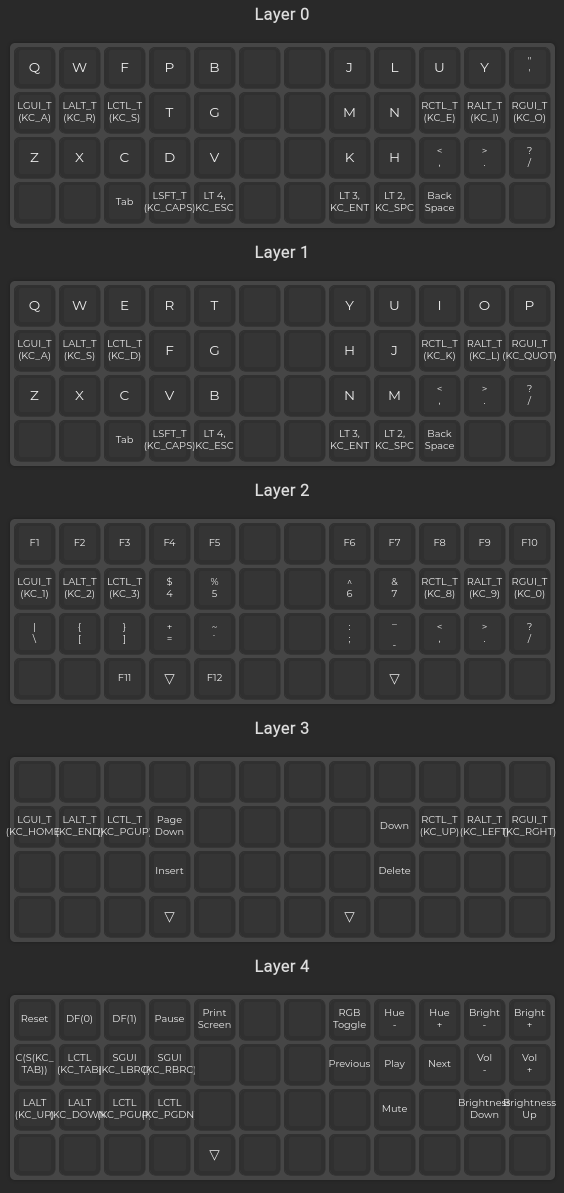
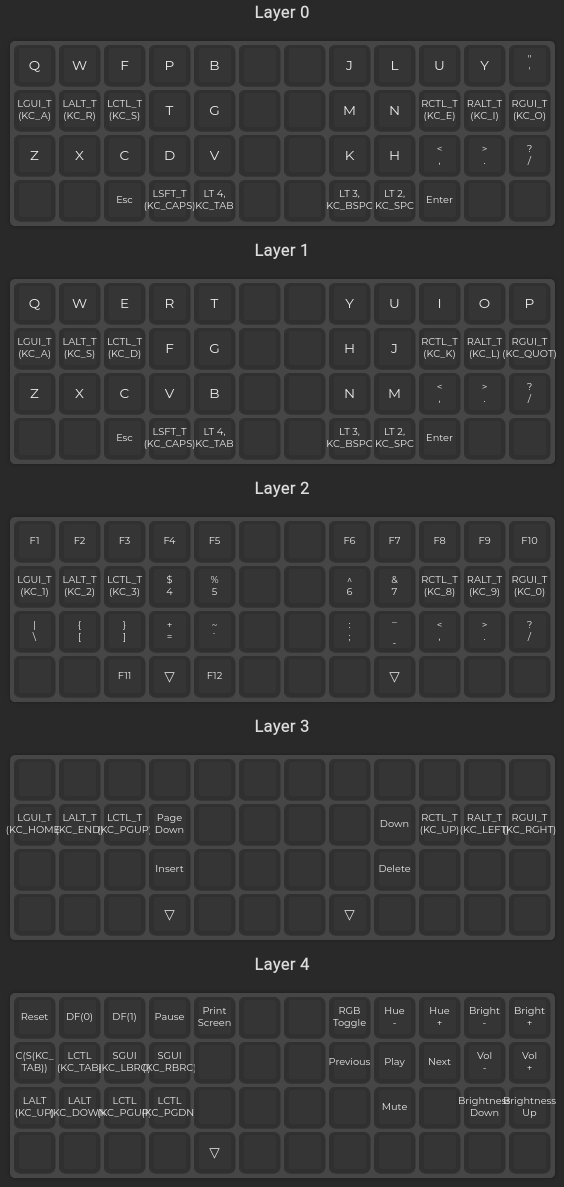
Rotate keys a smidge

diff --git a/keymap.c b/keymap.c
@@ -7,8 +7,8 @@
  */
 
 const uint16_t PROGMEM keymaps[][MATRIX_ROWS][MATRIX_COLS] = {
-	[0] = LAYOUT_ortho_4x12(KC_Q, KC_W, KC_F, KC_P, KC_B, KC_NO, KC_NO, KC_J, KC_L, KC_U, KC_Y, KC_QUOT, LGUI_T(KC_A), LALT_T(KC_R), LCTL_T(KC_S), KC_T, KC_G, KC_NO, KC_NO, KC_M, KC_N, RCTL_T(KC_E), RALT_T(KC_I), RGUI_T(KC_O), KC_Z, KC_X, KC_C, KC_D, KC_V, KC_NO, KC_NO, KC_K, KC_H, KC_COMM, KC_DOT, KC_SLSH, KC_NO, KC_NO, KC_TAB, LSFT_T(KC_CAPS), LT(4,KC_ESC), KC_NO, KC_NO, LT(3,KC_ENT), LT(2,KC_SPC), KC_BSPC, KC_NO, KC_NO),
-	[1] = LAYOUT_ortho_4x12(KC_Q, KC_W, KC_E, KC_R, KC_T, KC_NO, KC_NO, KC_Y, KC_U, KC_I, KC_O, KC_P, LGUI_T(KC_A), LALT_T(KC_S), LCTL_T(KC_D), KC_F, KC_G, KC_NO, KC_NO, KC_H, KC_J, RCTL_T(KC_K), RALT_T(KC_L), RGUI_T(KC_QUOT), KC_Z, KC_X, KC_C, KC_V, KC_B, KC_NO, KC_NO, KC_N, KC_M, KC_COMM, KC_DOT, KC_SLSH, KC_NO, KC_NO, KC_TAB, LSFT_T(KC_CAPS), LT(4,KC_ESC), KC_NO, KC_NO, LT(3,KC_ENT), LT(2,KC_SPC), KC_BSPC, KC_NO, KC_NO),
+	[0] = LAYOUT_ortho_4x12(KC_Q, KC_W, KC_F, KC_P, KC_B, KC_NO, KC_NO, KC_J, KC_L, KC_U, KC_Y, KC_QUOT, LGUI_T(KC_A), LALT_T(KC_R), LCTL_T(KC_S), KC_T, KC_G, KC_NO, KC_NO, KC_M, KC_N, RCTL_T(KC_E), RALT_T(KC_I), RGUI_T(KC_O), KC_Z, KC_X, KC_C, KC_D, KC_V, KC_NO, KC_NO, KC_K, KC_H, KC_COMM, KC_DOT, KC_SLSH, KC_NO, KC_NO, KC_ESC, LSFT_T(KC_CAPS), LT(4,KC_TAB), KC_NO, KC_NO, LT(3,KC_BSPC), LT(2,KC_SPC), KC_ENT, KC_NO, KC_NO),
+	[1] = LAYOUT_ortho_4x12(KC_Q, KC_W, KC_E, KC_R, KC_T, KC_NO, KC_NO, KC_Y, KC_U, KC_I, KC_O, KC_P, LGUI_T(KC_A), LALT_T(KC_S), LCTL_T(KC_D), KC_F, KC_G, KC_NO, KC_NO, KC_H, KC_J, RCTL_T(KC_K), RALT_T(KC_L), RGUI_T(KC_QUOT), KC_Z, KC_X, KC_C, KC_V, KC_B, KC_NO, KC_NO, KC_N, KC_M, KC_COMM, KC_DOT, KC_SLSH, KC_NO, KC_NO, KC_ESC, LSFT_T(KC_CAPS), LT(4,KC_TAB), KC_NO, KC_NO, LT(3,KC_BSPC), LT(2,KC_SPC), KC_ENT, KC_NO, KC_NO),
 	[2] = LAYOUT_ortho_4x12(KC_F1, KC_F2, KC_F3, KC_F4, KC_F5, KC_NO, KC_NO, KC_F6, KC_F7, KC_F8, KC_F9, KC_F10, LGUI_T(KC_1), LALT_T(KC_2), LCTL_T(KC_3), KC_4, KC_5, KC_NO, KC_NO, KC_6, KC_7, RCTL_T(KC_8), RALT_T(KC_9), RGUI_T(KC_0), KC_BSLS, KC_LBRC, KC_RBRC, KC_EQL, KC_GRV, KC_NO, KC_NO, KC_SCLN, KC_MINS, KC_COMM, KC_DOT, KC_SLSH, KC_NO, KC_NO, KC_F11, KC_TRNS, KC_F12, KC_NO, KC_NO, KC_NO, KC_TRNS, KC_NO, KC_NO, KC_NO),
 	[3] = LAYOUT_ortho_4x12(KC_NO, KC_NO, KC_NO, KC_NO, KC_NO, KC_NO, KC_NO, KC_NO, KC_NO, KC_NO, KC_NO, KC_NO, LGUI_T(KC_HOME), LALT_T(KC_END), LCTL_T(KC_PGUP), KC_PGDN, KC_NO, KC_NO, KC_NO, KC_NO, KC_DOWN, RCTL_T(KC_UP), RALT_T(KC_LEFT), RGUI_T(KC_RGHT), KC_NO, KC_NO, KC_NO, KC_INS, KC_NO, KC_NO, KC_NO, KC_NO, KC_DEL, KC_NO, KC_NO, KC_NO, KC_NO, KC_NO, KC_NO, KC_TRNS, KC_NO, KC_NO, KC_NO, KC_TRNS, KC_NO, KC_NO, KC_NO, KC_NO),
 	[4] = LAYOUT_ortho_4x12(RESET, DF(0), DF(1), KC_PAUS, KC_PSCR, KC_NO, KC_NO, RGB_TOG, RGB_HUD, RGB_HUI, RGB_VAD, RGB_VAI, C(S(KC_TAB)), LCTL(KC_TAB), SGUI(KC_LBRC), SGUI(KC_RBRC), KC_NO, KC_NO, KC_NO, KC_MPRV, KC_MPLY, KC_MNXT, KC_VOLD, KC_VOLU, LALT(KC_UP), LALT(KC_DOWN), LCTL(KC_PGUP), LCTL(KC_PGDN), KC_NO, KC_NO, KC_NO, KC_NO, KC_MUTE, KC_NO, KC_BRID, KC_BRIU, KC_NO, KC_NO, KC_NO, KC_NO, KC_TRNS, KC_NO, KC_NO, KC_NO, KC_NO, KC_NO, KC_NO, KC_NO)
